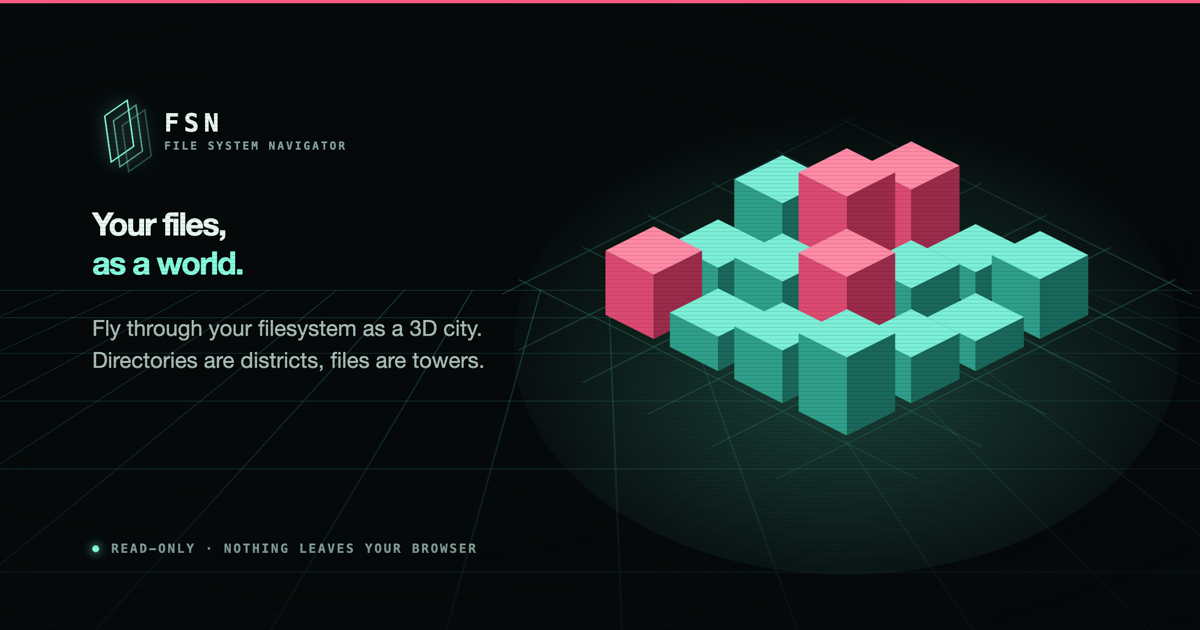
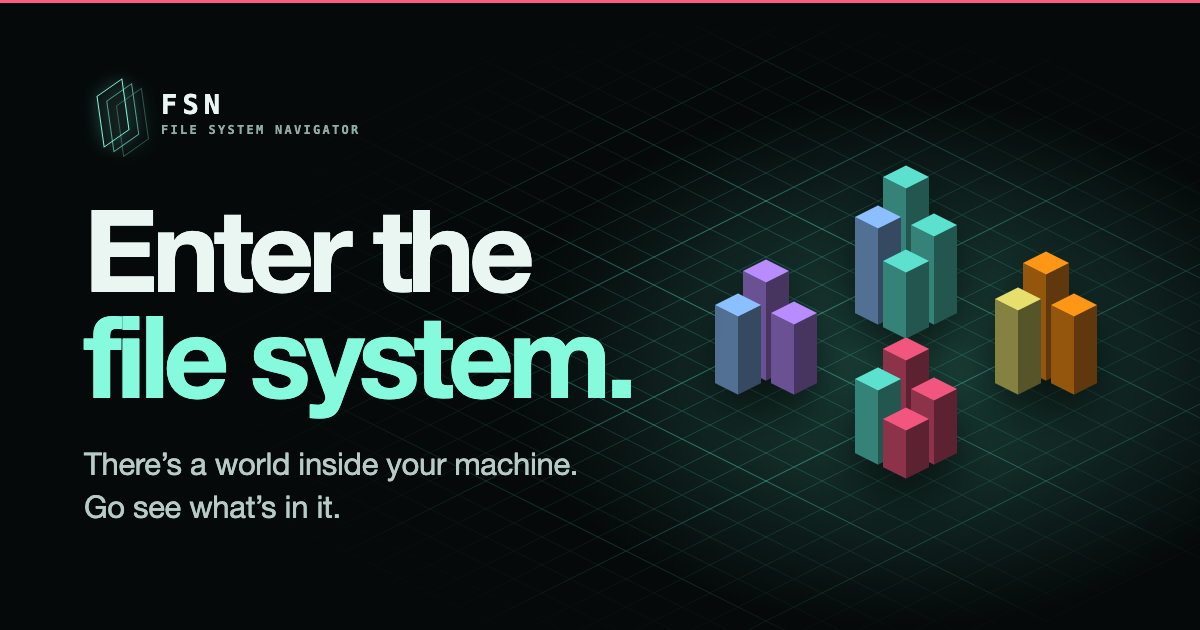
feat: rework the social card around the district world (#8)
The Open Graph card still showed the pre-district world: one dense mass
of cubes over a CSS floor grid in one-point perspective, while the blocks
themselves were flat isometric. Two projections fighting each other, and
the floor was clipped by a hard linear mask rather than faded.

Rebuild the scene on a single isometric lattice, so the grid the columns
stand on is the grid they are drawn in. Columns are grouped per directory
to match the world, using the palette from src/scene.ts, including the
pre-compensated image orange -- the literal swatch shades to olive here
for the same reason it does in the renderer.

Clusters sit three cells apart. Diagonally opposite clusters project into
the same screen column, so a one-cell gap reads as one continuous pile
rather than as separate directories.

Also fix the headline, which specified `font: 550 88px/.94 inherit`. The
font shorthand takes a family list, not the CSS-wide keyword inherit, so
the whole declaration was dropped and the title had been rendering at the
UA default 32px. Longhands, at 114px.

Copy is now "Enter the file system." over the tagline, and the welcome
dialog artwork is regenerated from the same lattice so the two agree.

diff --git a/tools/og-card.html b/tools/og-card.html
@@ -11,173 +11,90 @@
     --signal: #ff5b82;
     --mono: "SFMono-Regular", "IBM Plex Mono", Menlo, Consolas, monospace;
   }
-  .floor {
-    position: absolute; inset: 46% -40% -34% -40%;
-    background-image:
-      linear-gradient(rgba(91,255,217,.26) 1px, transparent 1px),
-      linear-gradient(90deg, rgba(91,255,217,.26) 1px, transparent 1px);
-    background-size: 68px 68px;
-    transform: perspective(560px) rotateX(69deg);
-    transform-origin: 50% 0;
-    -webkit-mask-image: linear-gradient(#000 8%, transparent 78%);
-  }
+  .scene { position: absolute; inset: 0; display: block; width: 100%; height: 100%; }
   .vignette {
     position: absolute; inset: 0;
-    background: radial-gradient(120% 90% at 30% 45%, transparent 35%, rgba(5,9,10,.86) 100%);
+    background:
+      linear-gradient(96deg, rgba(5,9,10,.94) 0%, rgba(5,9,10,.82) 26%, rgba(5,9,10,.3) 46%, transparent 60%),
+      radial-gradient(128% 104% at 66% 46%, transparent 42%, rgba(5,9,10,.88) 100%);
   }
-  .copy { position: absolute; top: 104px; left: 92px; width: 560px; }
-  .mark { display: flex; align-items: center; gap: 18px; margin-bottom: 46px; }
-  .glyph { position: relative; width: 54px; height: 54px; transform: rotate(-8deg); }
+  .copy { position: absolute; top: 84px; left: 84px; width: 640px; }
+  .mark { display: flex; align-items: center; gap: 19px; margin-bottom: 54px; }
+  .glyph { position: relative; width: 58px; height: 58px; transform: rotate(-8deg); }
   .glyph i {
-    position: absolute; inset: 3px 14px;
+    position: absolute; inset: 3px 15px;
     border: 1.5px solid var(--phosphor);
     background: rgba(134,250,221,.05);
     transform: skewY(-27deg);
     box-shadow: 0 0 18px rgba(134,250,221,.22);
   }
-  .glyph i:nth-child(2) { transform: translate(8px, 6px) skewY(-27deg); opacity: .62; }
-  .glyph i:nth-child(3) { transform: translate(16px, 12px) skewY(-27deg); opacity: .3; }
-  .wordmark strong { display: block; font: 800 25px/1 var(--mono); letter-spacing: .19em; }
-  .wordmark small { display: block; margin-top: 5px; color: #87a39d; font: 600 11px/1 var(--mono); letter-spacing: .19em; }
-  h1 { font: 550 88px/.94 inherit; letter-spacing: -.045em; }
+  .glyph i:nth-child(2) { transform: translate(9px, 6px) skewY(-27deg); opacity: .62; }
+  .glyph i:nth-child(3) { transform: translate(18px, 12px) skewY(-27deg); opacity: .3; }
+  .wordmark strong { display: block; font: 800 27px/1 var(--mono); letter-spacing: .19em; }
+  .wordmark small { display: block; margin-top: 6px; color: #8fada6; font: 600 12px/1 var(--mono); letter-spacing: .19em; }
+  /* longhands: the font shorthand takes a family list, not the CSS-wide keyword inherit */
+  h1 { font-size: 114px; font-weight: 700; line-height: .93; letter-spacing: -.05em; }
   h1 em { display: block; font-style: normal; color: var(--phosphor); }
-  p.sub { margin-top: 30px; max-width: 480px; color: #a8bbb5; font-size: 22px; line-height: 1.45; }
-  .foot {
-    position: absolute; left: 92px; bottom: 74px;
-    display: flex; align-items: center; gap: 12px;
-    color: #7f9a93; font: 650 12.5px var(--mono); letter-spacing: .15em;
-  }
-  .foot i { width: 7px; height: 7px; border-radius: 50%; background: var(--phosphor); box-shadow: 0 0 10px var(--phosphor); }
-  .art { position: absolute; top: 52%; right: 8px; width: 690px; transform: translateY(-50%); }
-  .art svg { display: block; width: 100%; height: auto; filter: drop-shadow(0 26px 34px rgba(0,0,0,.6)); }
-  .scan {
-    position: absolute; inset: 0;
-    background: repeating-linear-gradient(to bottom, transparent 0 3px, rgba(0,0,0,.10) 3px 4px);
-  }
+  p.sub { margin-top: 34px; max-width: 600px; color: #b7cbc5; font-size: 31px; line-height: 1.4; letter-spacing: -.01em; }
+  /* one sentence per line — left to wrap, it breaks mid-sentence */
+  p.sub span { display: block; }
   .edge { position: absolute; inset: 0; border-top: 3px solid var(--signal); }
 </style></head><body>
-  <div class="floor"></div>
+  <svg class="scene" viewBox="0 0 1200 630" xmlns="http://www.w3.org/2000/svg">
+    <defs>
+      <radialGradient id="grid-fade" gradientUnits="userSpaceOnUse" cx="760" cy="340" r="620"
+        gradientTransform="translate(760 340) scale(1 .52) translate(-760 -340)">
+        <stop offset="0%" stop-color="#fff" stop-opacity="1"/>
+        <stop offset="38%" stop-color="#fff" stop-opacity=".82"/>
+        <stop offset="70%" stop-color="#fff" stop-opacity=".34"/>
+        <stop offset="100%" stop-color="#fff" stop-opacity="0"/>
+      </radialGradient>
+      <mask id="grid-mask"><rect width="1200" height="630" fill="url(#grid-fade)"/></mask>
+      <pattern id="iso-minor" patternUnits="userSpaceOnUse" x="10" y="19" width="56" height="28">
+        <path d="M0 0 L56 28 M0 28 L56 0" fill="none" stroke="#5bffd9" stroke-opacity=".22" stroke-width="1"/>
+      </pattern>
+      <pattern id="iso-major" patternUnits="userSpaceOnUse" x="66" y="131" width="280" height="140">
+        <path d="M0 0 L280 140 M0 140 L280 0" fill="none" stroke="#5bffd9" stroke-opacity=".36" stroke-width="1"/>
+      </pattern>
+      <radialGradient id="halo" gradientUnits="userSpaceOnUse" cx="906" cy="362" r="400"
+        gradientTransform="translate(906 362) scale(1 .66) translate(-906 -362)">
+        <stop offset="0%" stop-color="#64ffd8" stop-opacity=".26"/>
+        <stop offset="100%" stop-color="#64ffd8" stop-opacity="0"/>
+      </radialGradient>
+      <filter id="city-shadow" x="-25%" y="-25%" width="150%" height="150%">
+        <feDropShadow dx="0" dy="24" stdDeviation="24" flood-color="#010505" flood-opacity=".6"/>
+      </filter>
+    </defs>
+    <circle cx="906" cy="362" r="400" fill="url(#halo)"/>
+    <g mask="url(#grid-mask)">
+      <rect width="1200" height="630" fill="url(#iso-minor)"/>
+      <rect width="1200" height="630" fill="url(#iso-major)"/>
+    </g>
+    <g filter="url(#city-shadow)">
+      <polygon points="883,177 906,188.5 906,310.5 883,299" fill="#358378"/><polygon points="906,188.5 929,177 929,299 906,310.5" fill="#23564f"/><polygon points="906,165.5 929,177 906,188.5 883,177" fill="#5ce1cf"/>
+      <polygon points="911,225 934,236.5 934,324.5 911,313" fill="#358378"/><polygon points="934,236.5 957,225 957,313 934,324.5" fill="#23564f"/><polygon points="934,213.5 957,225 934,236.5 911,225" fill="#5ce1cf"/>
+      <polygon points="855,217 878,228.5 878,324.5 855,313" fill="#516f94"/><polygon points="878,228.5 901,217 901,313 878,324.5" fill="#354961"/><polygon points="878,205.5 901,217 878,228.5 855,217" fill="#8bbfff"/>
+      <polygon points="883,261 906,272.5 906,338.5 883,327" fill="#358378"/><polygon points="906,272.5 929,261 929,327 906,338.5" fill="#23564f"/><polygon points="906,249.5 929,261 906,272.5 883,261" fill="#5ce1cf"/>
+      <polygon points="1023,263 1046,274.5 1046,380.5 1023,369" fill="#94570d"/><polygon points="1046,274.5 1069,263 1069,369 1046,380.5" fill="#613909"/><polygon points="1046,251.5 1069,263 1046,274.5 1023,263" fill="#ff9617"/>
+      <polygon points="743,271 766,282.5 766,380.5 743,369" fill="#6b5194"/><polygon points="766,282.5 789,271 789,369 766,380.5" fill="#463561"/><polygon points="766,259.5 789,271 766,282.5 743,271" fill="#b88cff"/>
+      <polygon points="1051,305 1074,316.5 1074,394.5 1051,383" fill="#94570d"/><polygon points="1074,316.5 1097,305 1097,383 1074,394.5" fill="#613909"/><polygon points="1074,293.5 1097,305 1074,316.5 1051,305" fill="#ff9617"/>
+      <polygon points="995,299 1018,310.5 1018,394.5 995,383" fill="#85813f"/><polygon points="1018,310.5 1041,299 1041,383 1018,394.5" fill="#575429"/><polygon points="1018,287.5 1041,299 1018,310.5 995,299" fill="#e6de6d"/>
+      <polygon points="771,313 794,324.5 794,394.5 771,383" fill="#6b5194"/><polygon points="794,324.5 817,313 817,383 794,394.5" fill="#463561"/><polygon points="794,301.5 817,313 794,324.5 771,313" fill="#b88cff"/>
+      <polygon points="715,305 738,316.5 738,394.5 715,383" fill="#516f94"/><polygon points="738,316.5 761,305 761,383 738,394.5" fill="#354961"/><polygon points="738,293.5 761,305 738,316.5 715,305" fill="#8bbfff"/>
+      <polygon points="883,349 906,360.5 906,450.5 883,439" fill="#8c3149"/><polygon points="906,360.5 929,349 929,439 906,450.5" fill="#5c2030"/><polygon points="906,337.5 929,349 906,360.5 883,349" fill="#f2557e"/>
+      <polygon points="911,389 934,400.5 934,464.5 911,453" fill="#8c3149"/><polygon points="934,400.5 957,389 957,453 934,464.5" fill="#5c2030"/><polygon points="934,377.5 957,389 934,400.5 911,389" fill="#f2557e"/>
+      <polygon points="855,379 878,390.5 878,464.5 855,453" fill="#358378"/><polygon points="878,390.5 901,379 901,453 878,464.5" fill="#23564f"/><polygon points="878,367.5 901,379 878,390.5 855,379" fill="#5ce1cf"/>
+      <polygon points="883,419 906,430.5 906,478.5 883,467" fill="#8c3149"/><polygon points="906,430.5 929,419 929,467 906,478.5" fill="#5c2030"/><polygon points="906,407.5 929,419 906,430.5 883,419" fill="#f2557e"/>
+    </g>
+  </svg>
   <div class="vignette"></div>
-  <div class="art"><svg viewBox="0 0 600 470" xmlns="http://www.w3.org/2000/svg">
-  <defs>
-    <radialGradient id="og-halo" cx="50%" cy="55%" r="55%">
-      <stop offset="0%" stop-color="#64ffd8" stop-opacity=".26"/>
-      <stop offset="100%" stop-color="#64ffd8" stop-opacity="0"/>
-    </radialGradient>
-    <linearGradient id="og-fade" x1="0" y1="0" x2="0" y2="1">
-      <stop offset="0%" stop-color="#fff" stop-opacity="0"/>
-      <stop offset="42%" stop-color="#fff" stop-opacity=".85"/>
-      <stop offset="100%" stop-color="#fff" stop-opacity="0"/>
-    </linearGradient>
-    <mask id="og-mask"><rect width="600" height="470" fill="url(#og-fade)"/></mask>
-  </defs>
-  <ellipse cx="300" cy="250" rx="290" ry="200" fill="url(#og-halo)"/>
-  <g stroke="#5bffd9" stroke-opacity=".22" stroke-width="1.2" mask="url(#og-mask)">
-    <line x1="305.6" y1="53.2" x2="-41.6" y2="226.8"/>
-    <line x1="294.4" y1="53.2" x2="641.6" y2="226.8"/>
-    <line x1="361.6" y1="81.2" x2="14.4" y2="254.8"/>
-    <line x1="238.4" y1="81.2" x2="585.6" y2="254.8"/>
-    <line x1="417.6" y1="109.2" x2="70.4" y2="282.8"/>
-    <line x1="182.4" y1="109.2" x2="529.6" y2="282.8"/>
-    <line x1="473.6" y1="137.2" x2="126.4" y2="310.8"/>
-    <line x1="126.4" y1="137.2" x2="473.6" y2="310.8"/>
-    <line x1="529.6" y1="165.2" x2="182.4" y2="338.8"/>
-    <line x1="70.4" y1="165.2" x2="417.6" y2="338.8"/>
-    <line x1="585.6" y1="193.2" x2="238.4" y2="366.8"/>
-    <line x1="14.4" y1="193.2" x2="361.6" y2="366.8"/>
-  </g>
-  <g>
-    <g>
-      <polygon points="258,102 300,123 300,161 258,140" fill="#2f9f8b"/>
-      <polygon points="300,123 342,102 342,140 300,161" fill="#19685b"/>
-      <polygon points="300,81 342,102 300,123 258,102" fill="#7cf0d8"/>
-    </g>
-    <g>
-      <polygon points="314,94 356,115 356,189 314,168" fill="#dc4a72"/>
-      <polygon points="356,115 398,94 398,168 356,189" fill="#9c2b4b"/>
-      <polygon points="356,73 398,94 356,115 314,94" fill="#ff8ba6"/>
-    </g>
-    <g>
-      <polygon points="202,106 244,127 244,189 202,168" fill="#2f9f8b"/>
-      <polygon points="244,127 286,106 286,168 244,189" fill="#19685b"/>
-      <polygon points="244,85 286,106 244,127 202,106" fill="#7cf0d8"/>
-    </g>
-    <g>
-      <polygon points="370,166 412,187 412,217 370,196" fill="#2f9f8b"/>
-      <polygon points="412,187 454,166 454,196 412,217" fill="#19685b"/>
-      <polygon points="412,145 454,166 412,187 370,166" fill="#7cf0d8"/>
-    </g>
-    <g>
-      <polygon points="258,100 300,121 300,217 258,196" fill="#dc4a72"/>
-      <polygon points="300,121 342,100 342,196 300,217" fill="#9c2b4b"/>
-      <polygon points="300,79 342,100 300,121 258,100" fill="#ff8ba6"/>
-    </g>
-    <g>
-      <polygon points="146,162 188,183 188,217 146,196" fill="#2f9f8b"/>
-      <polygon points="188,183 230,162 230,196 188,217" fill="#19685b"/>
-      <polygon points="188,141 230,162 188,183 146,162" fill="#7cf0d8"/>
-    </g>
-    <g>
-      <polygon points="426,172 468,193 468,245 426,224" fill="#2f9f8b"/>
-      <polygon points="468,193 510,172 510,224 468,245" fill="#19685b"/>
-      <polygon points="468,151 510,172 468,193 426,172" fill="#7cf0d8"/>
-    </g>
-    <g>
-      <polygon points="314,180 356,201 356,245 314,224" fill="#2f9f8b"/>
-      <polygon points="356,201 398,180 398,224 356,245" fill="#19685b"/>
-      <polygon points="356,159 398,180 356,201 314,180" fill="#7cf0d8"/>
-    </g>
-    <g>
-      <polygon points="202,174 244,195 244,245 202,224" fill="#2f9f8b"/>
-      <polygon points="244,195 286,174 286,224 244,245" fill="#19685b"/>
-      <polygon points="244,153 286,174 244,195 202,174" fill="#7cf0d8"/>
-    </g>
-    <g>
-      <polygon points="90,168 132,189 132,245 90,224" fill="#dc4a72"/>
-      <polygon points="132,189 174,168 174,224 132,245" fill="#9c2b4b"/>
-      <polygon points="132,147 174,168 132,189 90,168" fill="#ff8ba6"/>
-    </g>
-    <g>
-      <polygon points="370,226 412,247 412,273 370,252" fill="#2f9f8b"/>
-      <polygon points="412,247 454,226 454,252 412,273" fill="#19685b"/>
-      <polygon points="412,205 454,226 412,247 370,226" fill="#7cf0d8"/>
-    </g>
-    <g>
-      <polygon points="258,170 300,191 300,273 258,252" fill="#dc4a72"/>
-      <polygon points="300,191 342,170 342,252 300,273" fill="#9c2b4b"/>
-      <polygon points="300,149 342,170 300,191 258,170" fill="#ff8ba6"/>
-    </g>
-    <g>
-      <polygon points="146,222 188,243 188,273 146,252" fill="#2f9f8b"/>
-      <polygon points="188,243 230,222 230,252 188,273" fill="#19685b"/>
-      <polygon points="188,201 230,222 188,243 146,222" fill="#7cf0d8"/>
-    </g>
-    <g>
-      <polygon points="314,240 356,261 356,301 314,280" fill="#2f9f8b"/>
-      <polygon points="356,261 398,240 398,280 356,301" fill="#19685b"/>
-      <polygon points="356,219 398,240 356,261 314,240" fill="#7cf0d8"/>
-    </g>
-    <g>
-      <polygon points="202,234 244,255 244,301 202,280" fill="#2f9f8b"/>
-      <polygon points="244,255 286,234 286,280 244,301" fill="#19685b"/>
-      <polygon points="244,213 286,234 244,255 202,234" fill="#7cf0d8"/>
-    </g>
-    <g>
-      <polygon points="258,240 300,261 300,329 258,308" fill="#2f9f8b"/>
-      <polygon points="300,261 342,240 342,308 300,329" fill="#19685b"/>
-      <polygon points="300,219 342,240 300,261 258,240" fill="#7cf0d8"/>
-    </g>
-  </g>
-</svg></div>
   <div class="copy">
     <div class="mark">
       <div class="glyph"><i></i><i></i><i></i></div>
       <div class="wordmark"><strong>FSN</strong><small>FILE SYSTEM NAVIGATOR</small></div>
     </div>
-    <h1>Your files,<em>as a world.</em></h1>
-    <p class="sub">Fly through your filesystem as a 3D city. Directories are districts, files are towers.</p>
+    <h1>Enter the<em>file system.</em></h1>
+    <p class="sub"><span>There’s a world inside your machine.</span><span>Go see what’s in it.</span></p>
   </div>
-  <div class="foot"><i></i>READ-ONLY · NOTHING LEAVES YOUR BROWSER</div>
-  <div class="scan"></div>
   <div class="edge"></div>
 </body></html>

diff --git a/index.html b/index.html
@@ -4,7 +4,7 @@
     <meta charset="UTF-8" />
     <meta name="viewport" content="width=device-width, initial-scale=1.0" />
     <meta name="theme-color" content="#060a0b" />
-    <meta name="description" content="Explore your filesystem as a 3D city: directories are districts, files are towers. Read-only, and nothing ever leaves your browser." />
+    <meta name="description" content="Fly through your file system as a 3D city: directories are districts, files are towers. Read-only, and nothing ever leaves your browser." />
     <title>FSN: 3D File System Navigator</title>
     <style>html{background:#05090a;color-scheme:dark}</style>
     <link rel="icon" href="/favicon.svg" type="image/svg+xml" sizes="any" />
@@ -13,19 +13,19 @@
     <meta property="og:type" content="website" />
     <meta property="og:site_name" content="FSN" />
     <meta property="og:url" content="__SITE_URL__/" />
-    <meta property="og:title" content="FSN: Your files, as a world." />
-    <meta property="og:description" content="Explore your filesystem as a 3D city: directories are districts, files are towers. Read-only, and nothing ever leaves your browser." />
+    <meta property="og:title" content="FSN: Enter the file system." />
+    <meta property="og:description" content="There’s a world inside your machine. Go see what’s in it." />
     <meta property="og:image" content="__SITE_URL__/og.png" />
     <meta property="og:image:type" content="image/png" />
     <meta property="og:image:width" content="1200" />
     <meta property="og:image:height" content="630" />
-    <meta property="og:image:alt" content="An isometric city of teal and pink blocks on a phosphor grid, beside the FSN wordmark." />
+    <meta property="og:image:alt" content="Four clusters of coloured isometric columns, one per directory, standing on a phosphor grid, beside the FSN wordmark." />
     <meta property="og:locale" content="en_GB" />
     <meta name="twitter:card" content="summary_large_image" />
-    <meta name="twitter:title" content="FSN: Your files, as a world." />
-    <meta name="twitter:description" content="Explore your filesystem as a 3D city: directories are districts, files are towers. Read-only, and nothing ever leaves your browser." />
+    <meta name="twitter:title" content="FSN: Enter the file system." />
+    <meta name="twitter:description" content="There’s a world inside your machine. Go see what’s in it." />
     <meta name="twitter:image" content="__SITE_URL__/og.png" />
-    <meta name="twitter:image:alt" content="An isometric city of teal and pink blocks on a phosphor grid, beside the FSN wordmark." />
+    <meta name="twitter:image:alt" content="Four clusters of coloured isometric columns, one per directory, standing on a phosphor grid, beside the FSN wordmark." />
     <link rel="stylesheet" href="/src/style.css" />
   </head>
   <body>
@@ -124,87 +124,57 @@
 
     <dialog class="welcome-dialog" id="welcome-dialog" aria-labelledby="welcome-title">
       <div class="welcome-visual" aria-hidden="true">
-        <svg class="welcome-art" viewBox="0 0 420 300" role="img" aria-label="An isometric city of file blocks on a grid" preserveAspectRatio="xMidYMid meet">
+        <svg class="welcome-art" viewBox="0 0 420 300" role="img" aria-label="Three clusters of isometric columns, one per directory, standing on a grid" preserveAspectRatio="xMidYMid meet">
           <defs>
-            <radialGradient id="welcome-halo" cx="50%" cy="52%" r="52%">
+            <radialGradient id="welcome-halo" gradientUnits="userSpaceOnUse" cx="210" cy="180" r="180"
+              gradientTransform="translate(210 180) scale(1 .66) translate(-210 -180)">
               <stop offset="0%" stop-color="#64ffd8" stop-opacity=".22"/>
               <stop offset="100%" stop-color="#64ffd8" stop-opacity="0"/>
             </radialGradient>
-            <linearGradient id="welcome-floor-fade" x1="0" y1="0" x2="0" y2="1">
-              <stop offset="0%" stop-color="#fff" stop-opacity="0"/>
-              <stop offset="38%" stop-color="#fff" stop-opacity=".9"/>
+            <radialGradient id="welcome-floor-fade" gradientUnits="userSpaceOnUse" cx="210" cy="170" r="290"
+              gradientTransform="translate(210 170) scale(1 .56) translate(-210 -170)">
+              <stop offset="0%" stop-color="#fff" stop-opacity="1"/>
+              <stop offset="42%" stop-color="#fff" stop-opacity=".8"/>
+              <stop offset="74%" stop-color="#fff" stop-opacity=".3"/>
               <stop offset="100%" stop-color="#fff" stop-opacity="0"/>
-            </linearGradient>
+            </radialGradient>
             <mask id="welcome-floor-mask">
               <rect width="420" height="300" fill="url(#welcome-floor-fade)"/>
             </mask>
+            <pattern id="welcome-grid-minor" patternUnits="userSpaceOnUse" x="42" y="27" width="56" height="28">
+              <!-- 1.4 units: the panel renders this viewBox at ~0.66, so a 1-unit
+                   stroke would land sub-pixel and wash out. -->
+              <path d="M0 0 L56 28 M0 28 L56 0" fill="none" stroke="#5bffd9" stroke-opacity=".3" stroke-width="1.4"/>
+            </pattern>
+            <pattern id="welcome-grid-major" patternUnits="userSpaceOnUse" x="210" y="139" width="280" height="140">
+              <!-- 1.4 units: the panel renders this viewBox at ~0.66, so a 1-unit
+                   stroke would land sub-pixel and wash out. -->
+              <path d="M0 0 L280 140 M0 140 L280 0" fill="none" stroke="#5bffd9" stroke-opacity=".48" stroke-width="1.4"/>
+            </pattern>
           </defs>
-          <ellipse cx="210" cy="168" rx="190" ry="120" fill="url(#welcome-halo)"/>
-          <g stroke="#5bffd9" stroke-opacity=".26" stroke-width="1" mask="url(#welcome-floor-mask)">
-            <line x1="210" y1="41" x2="-20" y2="156"/>
-            <line x1="210" y1="41" x2="440" y2="156"/>
-            <line x1="256" y1="64" x2="26" y2="179"/>
-            <line x1="164" y1="64" x2="394" y2="179"/>
-            <line x1="302" y1="87" x2="72" y2="202"/>
-            <line x1="118" y1="87" x2="348" y2="202"/>
-            <line x1="348" y1="110" x2="118" y2="225"/>
-            <line x1="72" y1="110" x2="302" y2="225"/>
-            <line x1="394" y1="133" x2="164" y2="248"/>
-            <line x1="26" y1="133" x2="256" y2="248"/>
+          <circle cx="210" cy="180" r="180" fill="url(#welcome-halo)"/>
+          <g mask="url(#welcome-floor-mask)">
+            <rect width="420" height="300" fill="url(#welcome-grid-minor)"/>
+            <rect width="420" height="300" fill="url(#welcome-grid-major)"/>
           </g>
           <g>
-            <g>
-              <polygon points="176,80 210,97 210,127 176,110" fill="#2f9f8b"/>
-              <polygon points="210,97 244,80 244,110 210,127" fill="#1a6f61"/>
-              <polygon points="210,63 244,80 210,97 176,80" fill="#7cf0d8"/>
-            </g>
-            <g>
-              <polygon points="222,79 256,96 256,150 222,133" fill="#dc4a72"/>
-              <polygon points="256,96 290,79 290,133 256,150" fill="#a32e4f"/>
-              <polygon points="256,62 290,79 256,96 222,79" fill="#ff8ba6"/>
-            </g>
-            <g>
-              <polygon points="130,89 164,106 164,150 130,133" fill="#2f9f8b"/>
-              <polygon points="164,106 198,89 198,133 164,150" fill="#1a6f61"/>
-              <polygon points="164,72 198,89 164,106 130,89" fill="#7cf0d8"/>
-            </g>
-            <g>
-              <polygon points="268,134 302,151 302,173 268,156" fill="#2f9f8b"/>
-              <polygon points="302,151 336,134 336,156 302,173" fill="#1a6f61"/>
-              <polygon points="302,117 336,134 302,151 268,134" fill="#7cf0d8"/>
-            </g>
-            <g>
-              <polygon points="176,84 210,101 210,173 176,156" fill="#dc4a72"/>
-              <polygon points="210,101 244,84 244,156 210,173" fill="#a32e4f"/>
-              <polygon points="210,67 244,84 210,101 176,84" fill="#ff8ba6"/>
-            </g>
-            <g>
-              <polygon points="84,130 118,147 118,173 84,156" fill="#2f9f8b"/>
-              <polygon points="118,147 152,130 152,156 118,173" fill="#1a6f61"/>
-              <polygon points="118,113 152,130 118,147 84,130" fill="#7cf0d8"/>
-            </g>
-            <g>
-              <polygon points="222,145 256,162 256,196 222,179" fill="#2f9f8b"/>
-              <polygon points="256,162 290,145 290,179 256,196" fill="#1a6f61"/>
-              <polygon points="256,128 290,145 256,162 222,145" fill="#7cf0d8"/>
-            </g>
-            <g>
-              <polygon points="130,141 164,158 164,196 130,179" fill="#2f9f8b"/>
-              <polygon points="164,158 198,141 198,179 164,196" fill="#1a6f61"/>
-              <polygon points="164,124 198,141 164,158 130,141" fill="#7cf0d8"/>
-            </g>
-            <g>
-              <polygon points="176,144 210,161 210,219 176,202" fill="#dc4a72"/>
-              <polygon points="210,161 244,144 244,202 210,219" fill="#a32e4f"/>
-              <polygon points="210,127 244,144 210,161 176,144" fill="#ff8ba6"/>
-            </g>
+            <polygon points="187,49 210,60.5 210,178.5 187,167" fill="#358378"/><polygon points="210,60.5 233,49 233,167 210,178.5" fill="#23564f"/><polygon points="210,37.5 233,49 210,60.5 187,49" fill="#5ce1cf"/>
+            <polygon points="215,95 238,106.5 238,192.5 215,181" fill="#358378"/><polygon points="238,106.5 261,95 261,181 238,192.5" fill="#23564f"/><polygon points="238,83.5 261,95 238,106.5 215,95" fill="#5ce1cf"/>
+            <polygon points="159,87 182,98.5 182,192.5 159,181" fill="#516f94"/><polygon points="182,98.5 205,87 205,181 182,192.5" fill="#354961"/><polygon points="182,75.5 205,87 182,98.5 159,87" fill="#8bbfff"/>
+            <polygon points="187,131 210,142.5 210,206.5 187,195" fill="#358378"/><polygon points="210,142.5 233,131 233,195 210,206.5" fill="#23564f"/><polygon points="210,119.5 233,131 210,142.5 187,131" fill="#5ce1cf"/>
+            <polygon points="327,137 350,148.5 350,248.5 327,237" fill="#8c3149"/><polygon points="350,148.5 373,137 373,237 350,248.5" fill="#5c2030"/><polygon points="350,125.5 373,137 350,148.5 327,137" fill="#f2557e"/>
+            <polygon points="47,141 70,152.5 70,248.5 47,237" fill="#94570d"/><polygon points="70,152.5 93,141 93,237 70,248.5" fill="#613909"/><polygon points="70,129.5 93,141 70,152.5 47,141" fill="#ff9617"/>
+            <polygon points="355,179 378,190.5 378,262.5 355,251" fill="#8c3149"/><polygon points="378,190.5 401,179 401,251 378,262.5" fill="#5c2030"/><polygon points="378,167.5 401,179 378,190.5 355,179" fill="#f2557e"/>
+            <polygon points="299,171 322,182.5 322,262.5 299,251" fill="#8c3149"/><polygon points="322,182.5 345,171 345,251 322,262.5" fill="#5c2030"/><polygon points="322,159.5 345,171 322,182.5 299,171" fill="#f2557e"/>
+            <polygon points="75,183 98,194.5 98,262.5 75,251" fill="#94570d"/><polygon points="98,194.5 121,183 121,251 98,262.5" fill="#613909"/><polygon points="98,171.5 121,183 98,194.5 75,183" fill="#ff9617"/>
+            <polygon points="19,175 42,186.5 42,262.5 19,251" fill="#85813f"/><polygon points="42,186.5 65,175 65,251 42,262.5" fill="#575429"/><polygon points="42,163.5 65,175 42,186.5 19,175" fill="#e6de6d"/>
           </g>
         </svg>
       </div>
       <div class="welcome-copy">
         <p class="eyebrow">SYSTEM READY</p>
-        <h2 id="welcome-title"><span>Your files,</span> <span>as a world.</span></h2>
-        <p>Explore a generated filesystem now, or open a folder from your computer. Everything stays in this browser.</p>
+        <h2 id="welcome-title"><span>Enter the</span> <span>file system.</span></h2>
+        <p>Fly through a generated file system now, or open a folder from your computer. Everything stays in this browser.</p>
         <div class="welcome-actions">
           <button class="button button-primary" id="welcome-demo" type="button">Explore demo</button>
           <button class="button button-secondary" id="welcome-folder" type="button">Open local folder</button>
